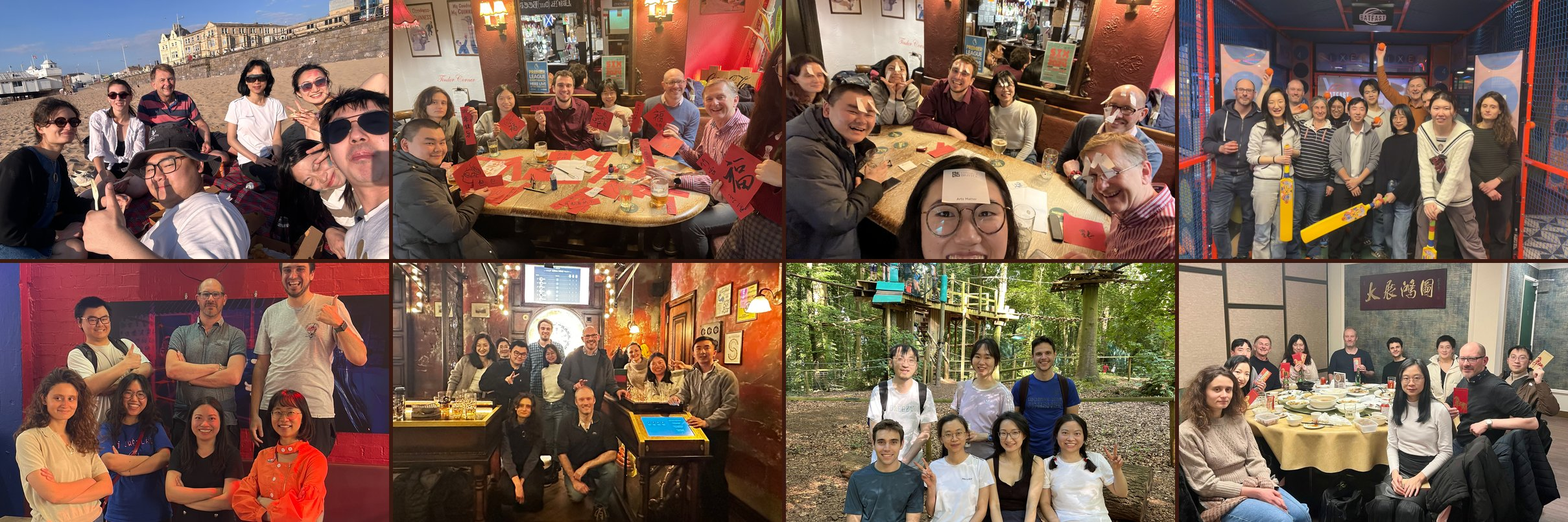
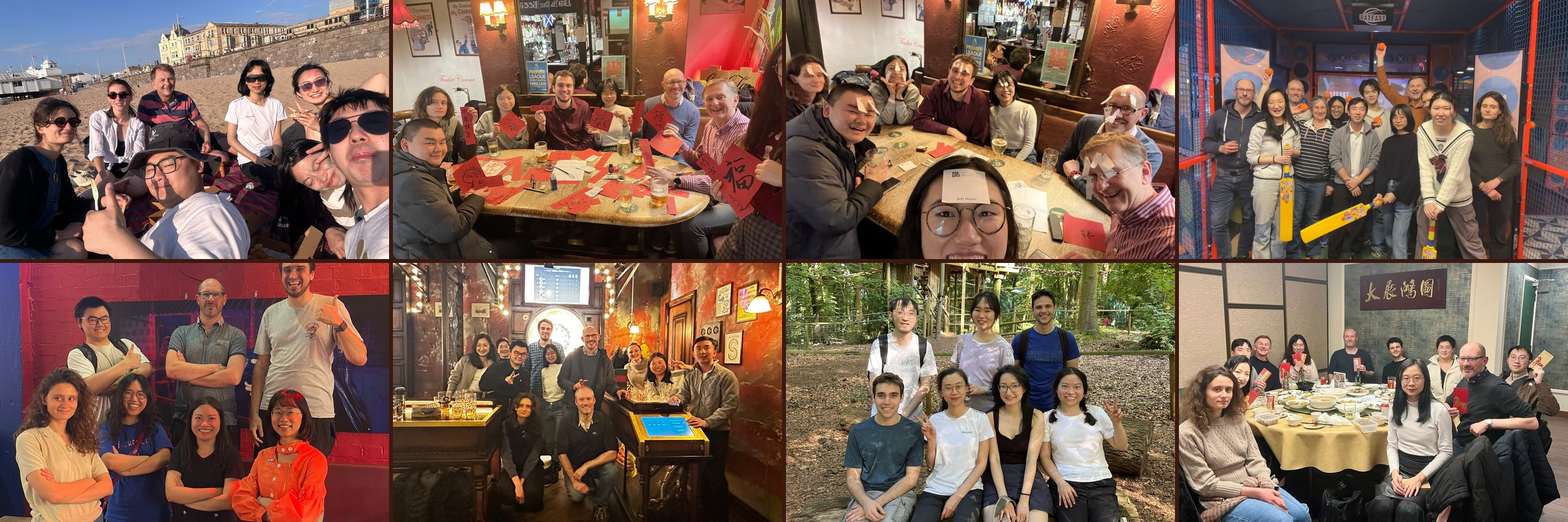
Archive the hero collage build script, fix TreeTop's crop
Adds scripts/build_hero_collage.py so the homepage hero image can be
regenerated whenever socials photos are updated, instead of being a
one-off manual edit. Re-ran it with a per-photo centering override for
TreeTop.jpeg (row 2, photo 3) — the default crop left too much
treehouse structure above people's heads.

Changed region(s): [[0.4963, 0.4963, 0.7754, 1.0]]

diff --git a/scripts/build_hero_collage.py b/scripts/build_hero_collage.py
@@ -1,0 +1,64 @@
+"""Rebuild assets/images/hero_collage.jpg, the homepage hero background.
+
+Usage (from the repo root):
+    pip install pillow
+    python scripts/build_hero_collage.py
+
+To update the collage with different/new photos: edit the PHOTOS list below
+(paths are relative to the repo root, source images live in
+assets/images/socials/), then re-run the script and commit the new
+assets/images/hero_collage.jpg.
+
+Each entry is a path, or a (path, vertical_centering) tuple if the default
+crop doesn't frame the photo well. vertical_centering ranges 0-1: lower
+values keep more of the top of the source image, higher values keep more of
+the bottom (PIL's ImageOps.fit `centering` argument, y-axis only — see
+https://pillow.readthedocs.io/en/stable/reference/ImageOps.html#PIL.ImageOps.fit).
+Default is 0.4 (leans slightly toward the top, since most group photos have
+more headroom than legroom above the crop).
+"""
+
+from PIL import Image, ImageOps
+
+PHOTOS = [
+    "assets/images/socials/Beach_2024_1.jpeg",
+    "assets/images/socials/CNY_2024_1.jpeg",
+    "assets/images/socials/CNY_2024_3.jpeg",
+    "assets/images/socials/Cricket.png",
+    "assets/images/socials/LaserTag_1.png",
+    "assets/images/socials/Mar_24_darts.jpg",
+    ("assets/images/socials/TreeTop.jpeg", 0.58),  # crop leans down so people aren't dwarfed by the treehouse above them
+    "assets/images/socials/CNY_2026.jpeg",
+]
+
+OUTPUT = "assets/images/hero_collage.jpg"
+COLS, ROWS = 4, 2
+TILE_W, TILE_H = 600, 400
+GAP = 6
+GAP_COLOR = (58, 26, 16)  # matches .hero background #3a1a10 in assets/css/main.css
+DEFAULT_CENTERING_Y = 0.4
+
+
+def build():
+    canvas_w = COLS * TILE_W + (COLS - 1) * GAP
+    canvas_h = ROWS * TILE_H + (ROWS - 1) * GAP
+    canvas = Image.new("RGB", (canvas_w, canvas_h), GAP_COLOR)
+
+    for i, entry in enumerate(PHOTOS):
+        path, centering_y = entry if isinstance(entry, tuple) else (entry, DEFAULT_CENTERING_Y)
+
+        img = Image.open(path)
+        img = ImageOps.exif_transpose(img)  # respect phone photo rotation metadata
+        img = img.convert("RGB")
+        fitted = ImageOps.fit(img, (TILE_W, TILE_H), method=Image.LANCZOS, centering=(0.5, centering_y))
+
+        col, row = i % COLS, i // COLS
+        x, y = col * (TILE_W + GAP), row * (TILE_H + GAP)
+        canvas.paste(fitted, (x, y))
+
+    canvas.save(OUTPUT, quality=85, optimize=True)
+    print(f"Saved {OUTPUT} ({canvas.width}x{canvas.height})")
+
+
+if __name__ == "__main__":
+    build()

diff --git a/README.md b/README.md
@@ -84,6 +84,17 @@ Edit `_data/seminars.yml`, grouped by year:
 
 To add a new year, add another `- year: ...` block; to add a talk, add another entry to that year's `talks:` list. `upcoming: true` adds an "Upcoming" badge and makes the talk show up under the "Upcoming" filter button on `/group-meeting/`.
 
+## Updating the homepage hero photo
+
+The banner image behind the homepage title (`assets/images/hero_collage.jpg`) is a grid built from photos in `assets/images/socials/` — it's not something to edit by hand. To refresh it (e.g. with more recent socials photos):
+
+```
+pip install pillow
+python scripts/build_hero_collage.py
+```
+
+Edit the `PHOTOS` list at the top of `scripts/build_hero_collage.py` to change which photos are used — see the comments in that file for how to fix the crop on a photo if it doesn't frame people well by default. Re-run the script and commit the regenerated `hero_collage.jpg`.
+
 ## Adding a new page
 
 1. Create a new file in `_pages/`, e.g. `_pages/resources.md`, with front matter:
